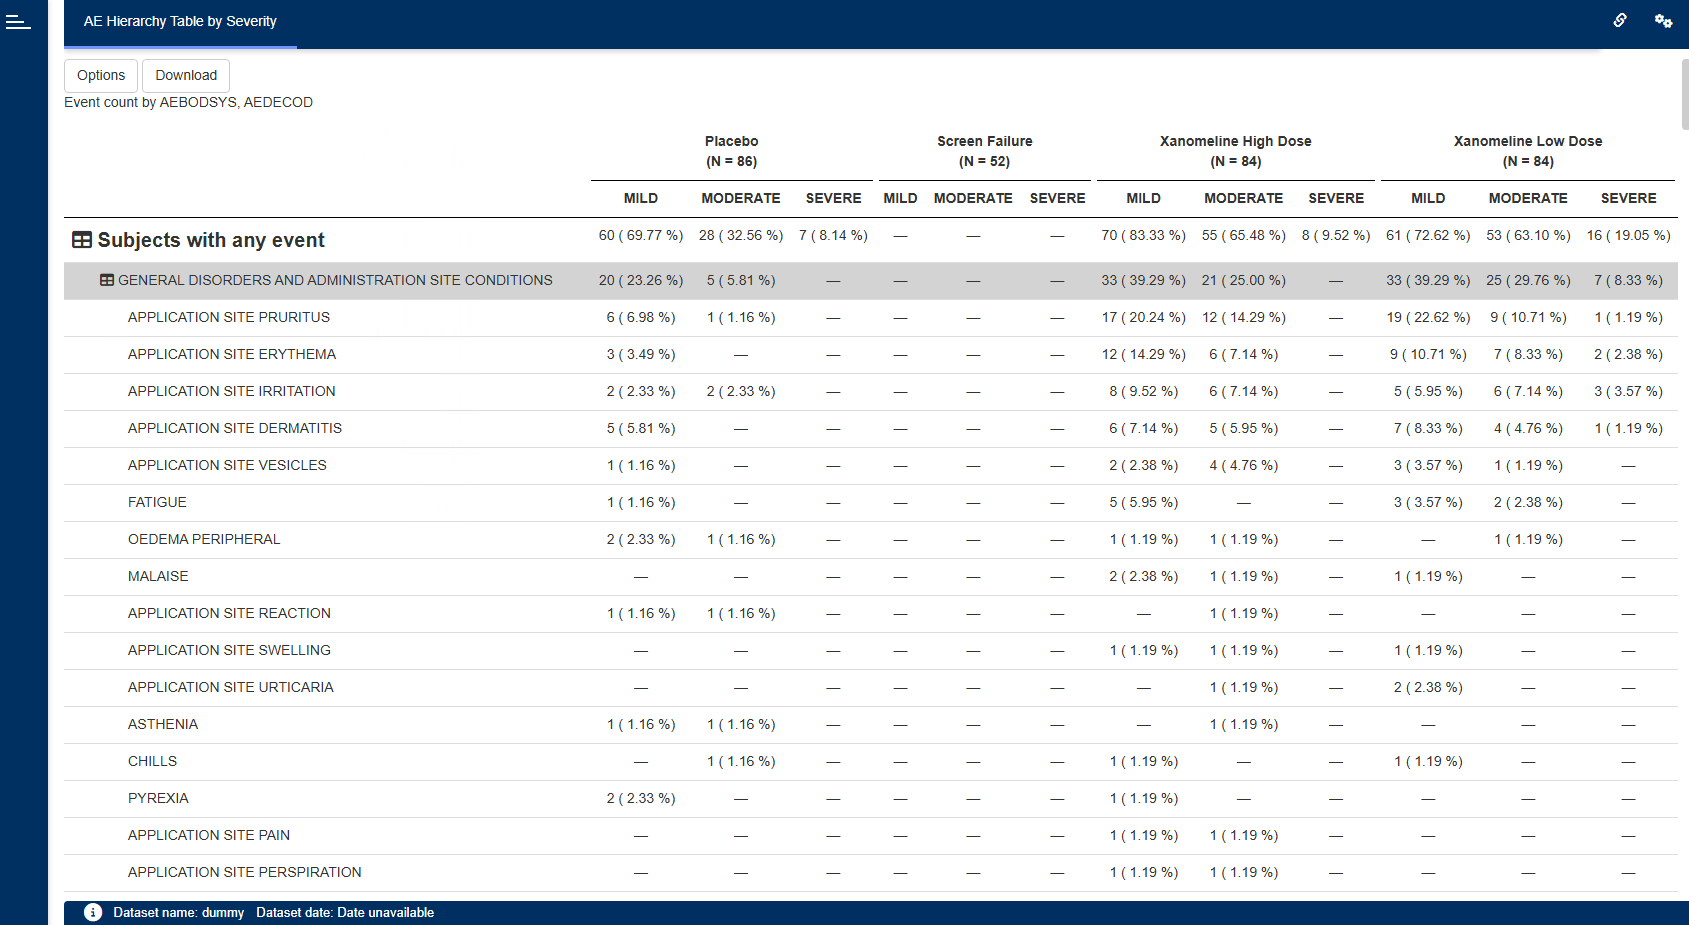
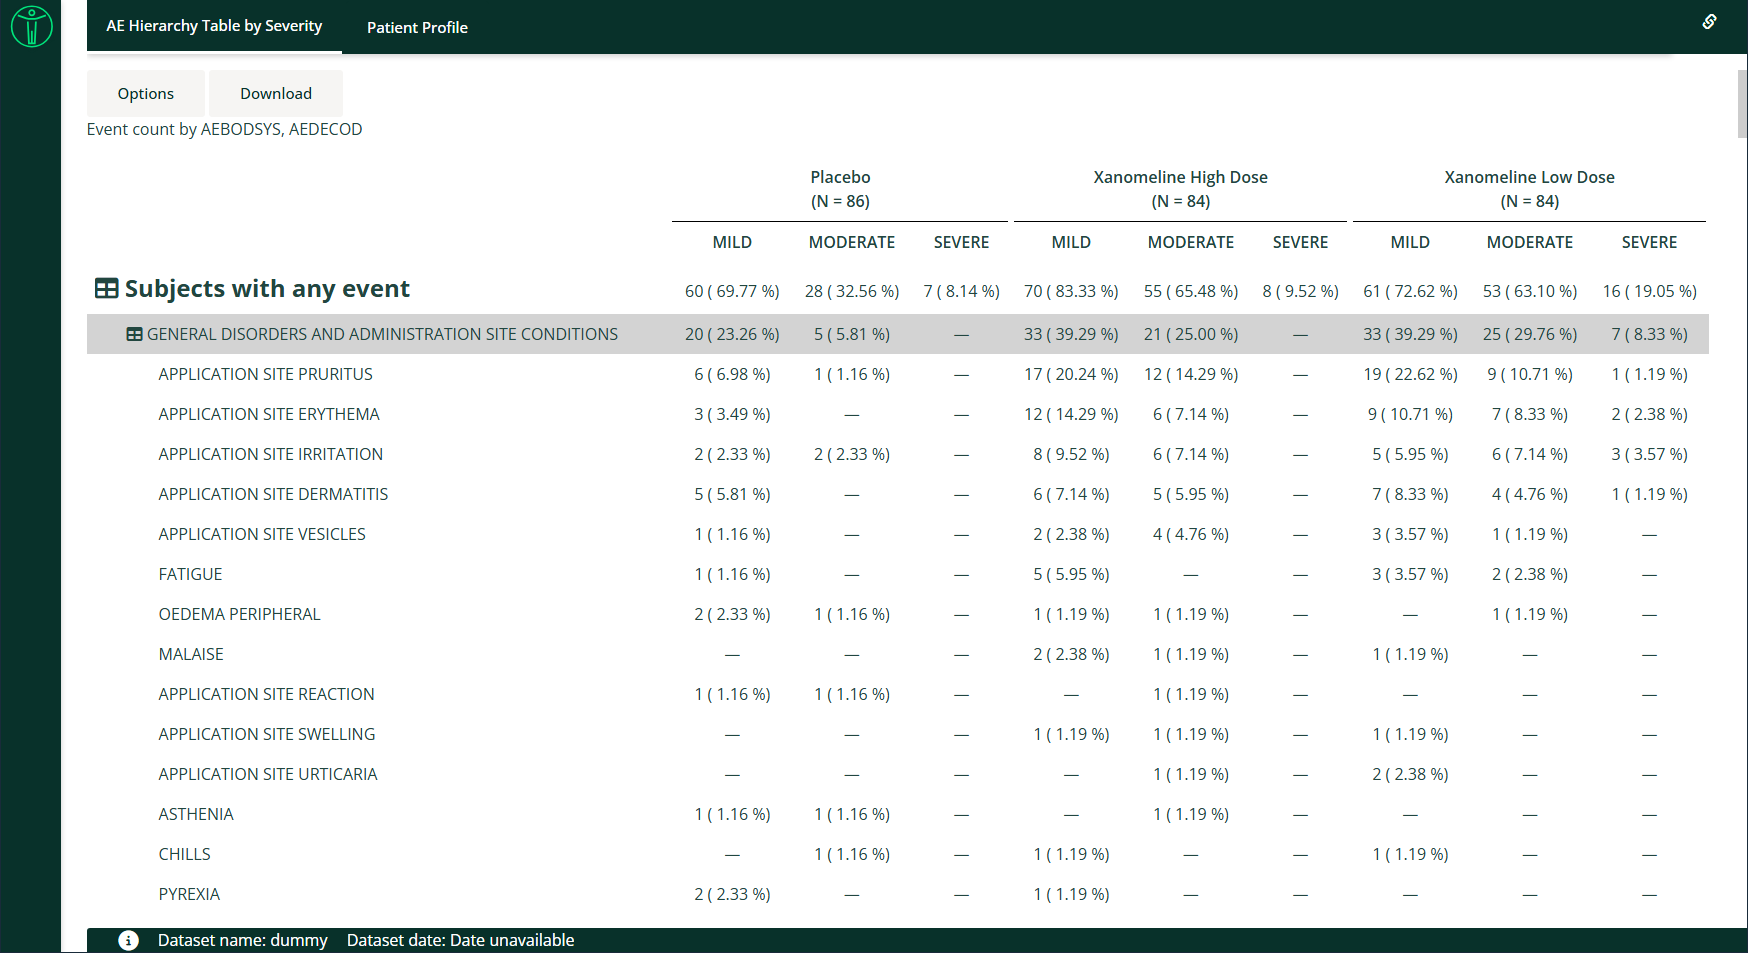
Update screenshots

diff --git a/NEWS.md b/NEWS.md
@@ -1,3 +1,7 @@
+# dv.tables 0.3.0-9004
+
+* Update screenshots.
+
 # dv.tables 0.3.0-9003
 
 * Replace `hidden` class for `d-none`
